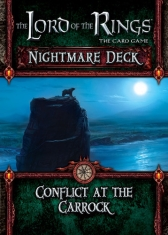
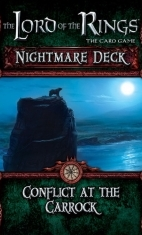
Added ProductGroup and ProductGroupViewModel classes to help organize products Fixed the dimensions of some of the product images, to allow for more consistent layout More cleanup of the Browse page layout

diff --git a/HallOfBeorn/HallOfBeorn/Services/CardService.cs b/HallOfBeorn/HallOfBeorn/Services/CardService.cs
@@ -24,6 +24,7 @@ namespace HallOfBeorn.Services
         }
 
         private readonly List<Product> products = new List<Product>();
+        private readonly List<ProductGroup> productGroups = new List<ProductGroup>();
         private readonly List<CardSet> sets = new List<CardSet>();
         private readonly List<string> setNames = new List<string>();
         private readonly Dictionary<string, Card> cards = new Dictionary<string, Card>();
@@ -123,58 +124,29 @@ namespace HallOfBeorn.Services
 
         private void LoadProducts()
         {
-            AddProduct(new CoreSetProduct());
-            
-            AddProduct(new TheHuntForGollumProduct());
-            AddProduct(new ConflictAtTheCarrokProduct());
-            AddProduct(new AJourneyToRhosgobelProduct());
-            AddProduct(new TheHillsOfEmynMuilProduct());
-            AddProduct(new TheDeadMarshesProduct());
-            AddProduct(new ReturnToMirkwoodProduct());
+            productGroups.Add(new ShadowsOfMirkwoodProductGroup());
+            productGroups.Add(new TheDwarrowdelfProductGroup());
+            productGroups.Add(new AgainstTheShadowProductGroup());
+            productGroups.Add(new TheRingMakerProductGroup());
 
-            AddProduct(new KhazadDumProduct());
+            productGroups.Add(new TheHobbitSagaProductGroup());
+            productGroups.Add(new TheLordOfTheRingsSagaProductGroup());
 
-            AddProduct(new TheRedhornGateProduct());
-            AddProduct(new RoadToRivendellProduct());
-            AddProduct(new TheWatcherInTheWaterProduct());
-            AddProduct(new TheLongDarkProduct());
-            AddProduct(new FoundationsOfStoneProduct());
-            AddProduct(new ShadowAndFlameProduct());
+            productGroups.Add(new GenConDeckProductGroup());
+            productGroups.Add(new NightmareDeckProductGroup());
 
-            AddProduct(new HeirsOfNumenorProduct());
+            foreach (var productGroup in productGroups)
+            {
+                if (productGroup.MainProduct != null)
+                {
+                    AddProduct(productGroup.MainProduct);
+                }
 
-            AddProduct(new TheStewardsFearProduct());
-            AddProduct(new TheDruadanForestProduct());
-            AddProduct(new EncounterAtAmonDinProduct());
-            AddProduct(new AssaultOnOsgiliathProduct());
-            AddProduct(new TheBloodOfGondorProduct());
-            AddProduct(new TheMorgulValeProduct());
-
-            AddProduct(new TheVoiceOfIsengardProduct());
-            AddProduct(new TheDunlandTrapProduct());
-
-            AddProduct(new TheHobbitOverHillAndUnderHillProduct());
-            AddProduct(new TheHobbitOnTheDoorstepProduct());
-
-            AddProduct(new TheBlackRidersProduct());
-
-            AddProduct(new TheMassingAtOsgiliathProduct());
-            AddProduct(new TheBattleOfLakeTownProduct());
-            AddProduct(new TheStoneOfErechProduct());
-
-            AddProduct(new PassageThroughMirkwoodNightmareProduct());
-            AddProduct(new JourneyAlongTheAnduinNightmareProduct());
-            AddProduct(new EscapeFromDolGuldurNightmareProduct());
-
-            AddProduct(new TheHuntForGollumNightmareProduct());
-            AddProduct(new ConflictAtTheCarrockNightmareProduct());
-            AddProduct(new AJourneyToRhosgobelNightmareProduct());
-            AddProduct(new TheHillsOfEmynMuilNightmareProduct());
-            AddProduct(new TheDeadMarshesNightmareProduct());
-            AddProduct(new ReturnToMirkwoodNightmareProduct());
-
-            AddProduct(new KhazadDumNightmareProduct());
-            AddProduct(new TheHobbitOverHillAndUnderHillNightmareProduct());
+                foreach (var product in productGroup.ChildProducts)
+                {
+                    AddProduct(product);
+                }
+            }
 
             /*
             AddSet(new CoreSet());
@@ -1015,6 +987,11 @@ namespace HallOfBeorn.Services
         public IEnumerable<Product> Products()
         {
             return products;
+        }
+
+        public IEnumerable<ProductGroup> ProductGroups()
+        {
+            return productGroups;
         }
     }
 }

diff --git a/HallOfBeorn/HallOfBeorn/Controllers/CardsController.cs b/HallOfBeorn/HallOfBeorn/Controllers/CardsController.cs
@@ -217,9 +217,9 @@ namespace HallOfBeorn.Controllers
         {
             var model = new BrowseViewModel();
 
-            foreach (var product in _cardService.Products())
+            foreach (var productGroup in _cardService.ProductGroups())
             {
-                model.Products.Add(new ProductViewModel(product));
+                model.ProductGroups.Add(new ProductGroupViewModel(productGroup));
             }
 
             return View(model);

diff --git a/HallOfBeorn/HallOfBeorn/Models/Products/KhazadDumNightmareProduct.cs b/HallOfBeorn/HallOfBeorn/Models/Products/KhazadDumNightmareProduct.cs
@@ -8,7 +8,7 @@ namespace HallOfBeorn.Models.Products
     public class KhazadDumNightmareProduct : Product
     {
         public KhazadDumNightmareProduct()
-            : base("Khazad-dûm Nightmare Decks", "MEN10", ImageType.Jpg)
+            : base("Khazad-dûm Nightmare Decks", "MEN10", ImageType.Png)
         {
             CardSets.Add(new Sets.IntoThePitNightmare());
             CardSets.Add(new Sets.TheSeventhLevelNightmare());

diff --git a/HallOfBeorn/HallOfBeorn/Models/BrowseViewModel.cs b/HallOfBeorn/HallOfBeorn/Models/BrowseViewModel.cs
@@ -9,9 +9,9 @@ namespace HallOfBeorn.Models
     {
         public BrowseViewModel()
         {
-            Products = new List<ProductViewModel>();
+            ProductGroups = new List<ProductGroupViewModel>();
         }
 
-        public List<ProductViewModel> Products { get; set; }
+        public List<ProductGroupViewModel> ProductGroups { get; private set; }
     }
 }
